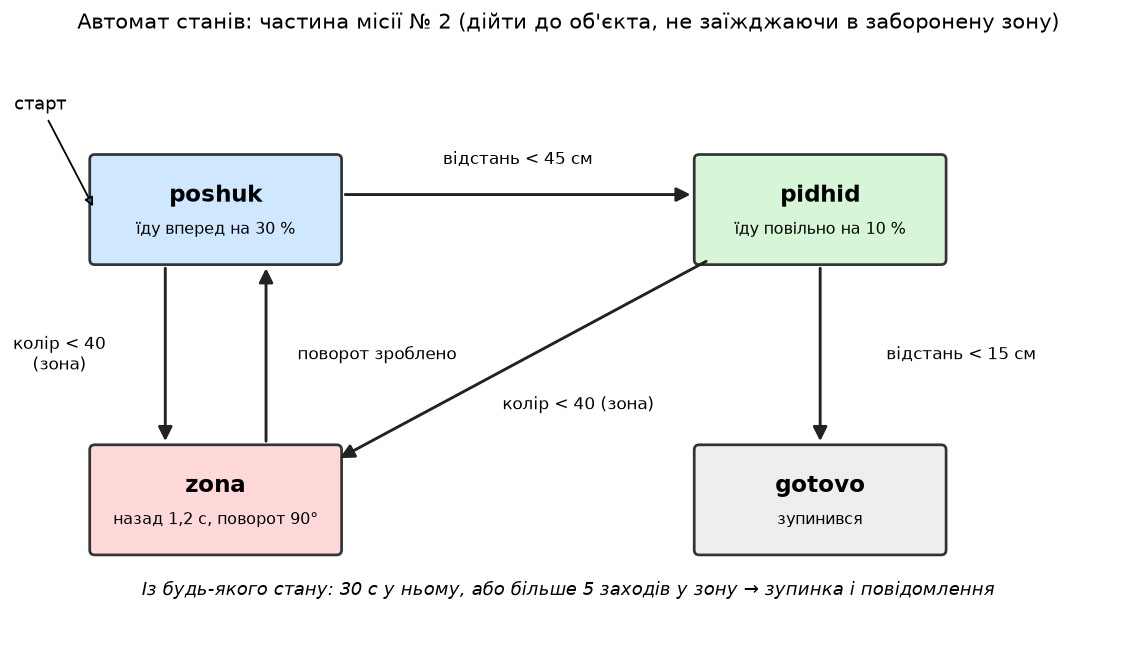
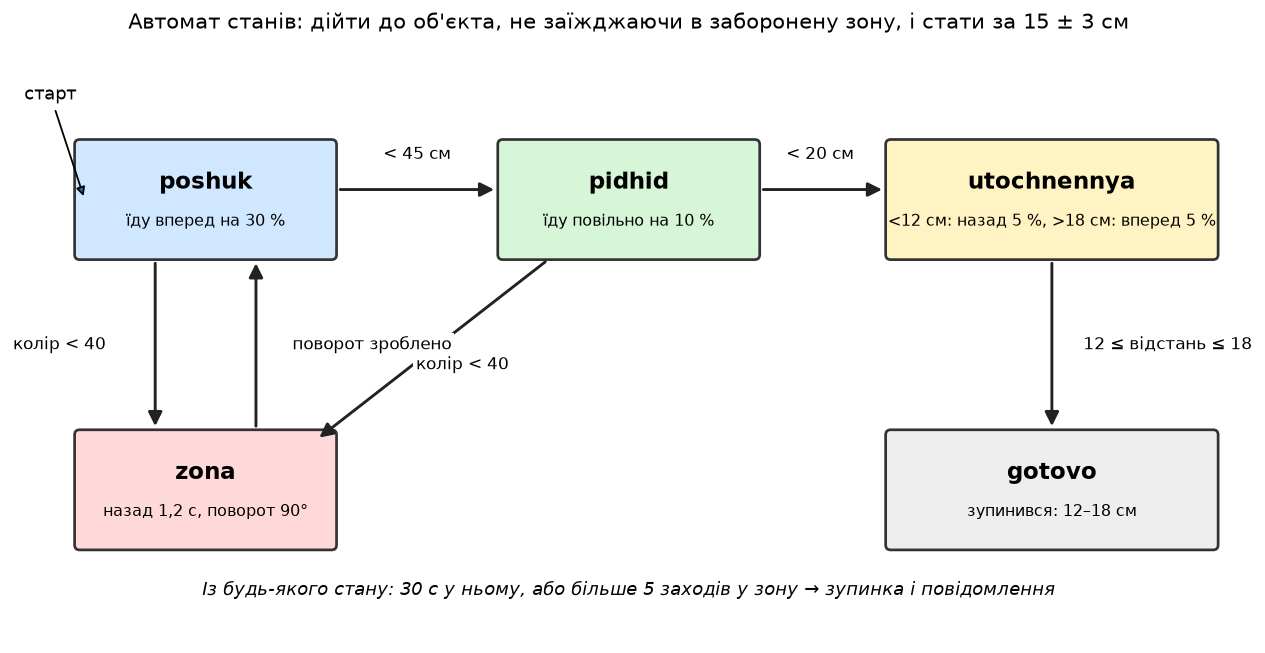
Робота 6: стан utochnennya для точної зупинки 15 ± 3 см, нова діаграма

diff --git a/praktyka/06-avtomat-staniv/misiya.py b/praktyka/06-avtomat-staniv/misiya.py
@@ -16,9 +16,9 @@ time.sleep(0.5)
 
 PORIH_ZONY = 40       # з роботи 4: нижче — заборонена зона
 PORIH_PIDHID = 45     # см: ближче — їдемо повільно
-PORIH_STOP = 23       # см: ціль за карткою 15 ± 3; з порогом 15 робот
-                      # проїжджав до 6,5 см, бо в циклі два датчики й мотори
-                      # ще їдуть після команди
+PORIH_STOP = 20       # см: тут зупиняємо хід, далі точно доводимо
+MIN_OK = 12           # з картки: 15 ± 3 см
+MAX_OK = 18
 TAIMAUT = 30          # с у одному стані
 MAKS_ZON = 5          # більше заходів у зону — щось не так, зупиняємось
 
@@ -54,6 +54,17 @@ while stan != "gotovo":
         if c < PORIH_ZONY:
             perekhid("zona")
         elif d < PORIH_STOP:
+            tank.off()
+            perekhid("utochnennya")
+
+    elif stan == "utochnennya":       # довести до 15 ± 3 см за реальною відстанню
+        if time.time() - vkhid < 0.7:
+            tank.off()                # дати моторам зупинитись
+        elif d < MIN_OK:
+            tank.on(SpeedPercent(-5), SpeedPercent(-5))
+        elif d > MAX_OK:
+            tank.on(SpeedPercent(5), SpeedPercent(5))
+        else:
             tank.off()
             perekhid("gotovo")
 
